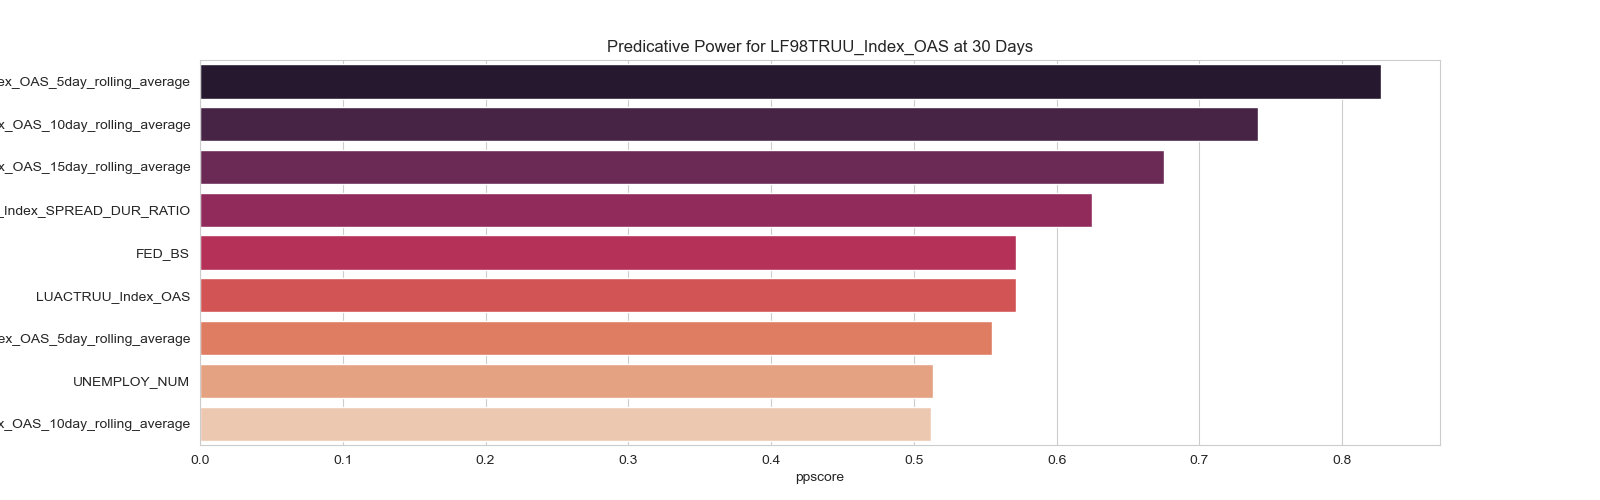
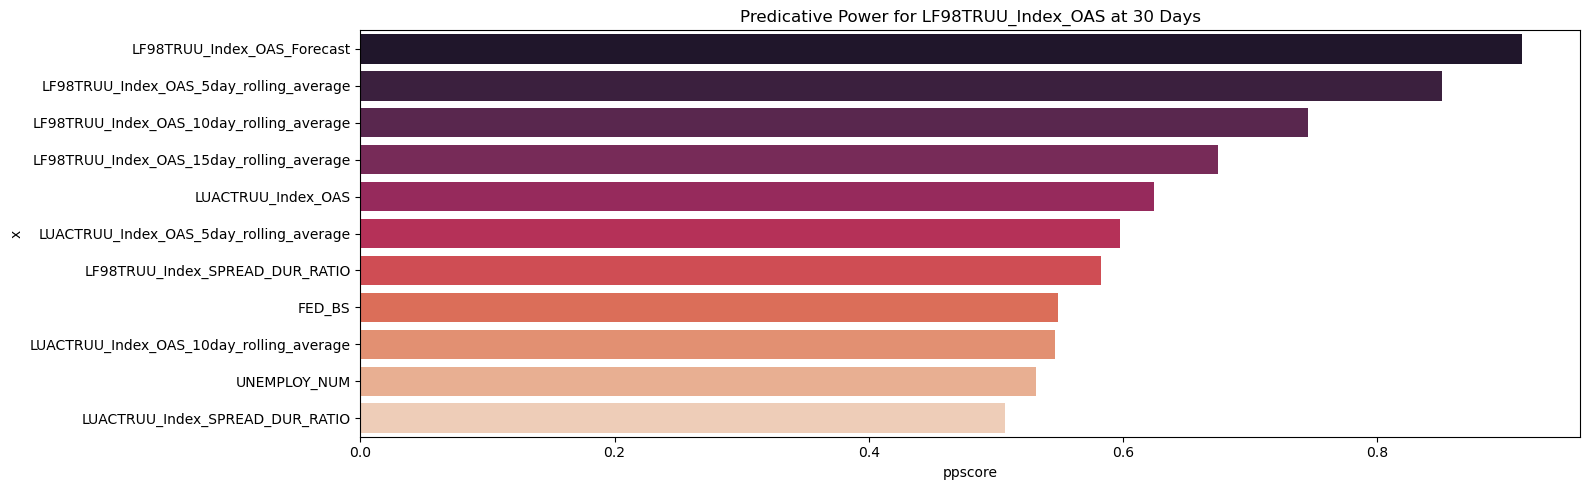
Working GUI, Outputs, Updated README

diff --git a/webapp.py b/webapp.py
@@ -65,6 +65,7 @@ def run_model(model_name):
     if 'model' not in session_state:
         log.info(" Building the current model...")    
         session_state.model =  _models._build_model(session_state.pipeline, model_name)
+        session_state.final_preds = session_state.model._return_final_data()
     my_bar.progress(50)
     session_state.model_results = session_state.model._return_preds()
     session_state.model.predictive_power()
@@ -80,13 +81,7 @@ def run_model(model_name):
 ################################################################################
 # Side Bar - File and Date Chooser  
 ################################################################################
-if 'model' in session_state:
-    st.sidebar.subheader("Menu: ")
-    session_state.page_selection = st.sidebar.radio("Please choose below: ", 
-                                      ('Historic Data',
-                                       'Feature Importance & Model Analysis'), 
-                                      index=0)
-    
+
 st.sidebar.subheader("Reset: ")
 
 if st.sidebar.button('Reset All'):
@@ -119,9 +114,8 @@ date_range = st.sidebar.date_input("Select a date range",
                                    [datetime.date(2012, 8, 8), 
                                     datetime.date(2020, 7, 31)] )
 
-################################################################################
+
 # If Data File -> Pre-process raw data 
-################################################################################
 if st.sidebar.button('Load Data '):
     
     if 'file_buffer' in session_state:
@@ -151,9 +145,8 @@ if st.sidebar.button('Load Data '):
     else:
         st.sidebar.info('Please select a file')
 
-################################################################################
+
 # If Pipeline Exists -> Train Model 
-################################################################################
 session_state.model_type = \
     st.sidebar.selectbox('Which Model Would You Like to Use?', (['','XGBoost']))
 
@@ -179,10 +172,13 @@ if st.sidebar.button('Train Model'):
     elif session_state.model_type == '':
             st.sidebar.warning('Please choose a model to continue')  
             
-
-
-
-   
+if 'model' in session_state:
+    st.sidebar.subheader("Page Menu: ")
+    session_state.page_selection = st.sidebar.radio("Please choose below: ", 
+                                      ('Historic Data',
+                                       'Feature Importance & Model Analysis'), 
+                                      index=0)
+    
 ################################################################################
 # Main Page
 ################################################################################
@@ -220,7 +216,6 @@ if 'model' in session_state:
             
             df_2target = pd.melt(session_state.data, id_vars=['Dates'], value_vars=options)
             df_2target.columns = ['Dates','Target','Value']
-
             fig = px.line(df_2target, x="Dates", y="Value", color='Target', width=1100)
             st.plotly_chart(fig)
         
@@ -242,6 +237,16 @@ if 'model' in session_state:
             col2.metric("Mean Square Error", MSE,)
             col3.metric("Root Mean Square Error", RMSE)
             my_bar.progress(40)
+            session_state.final_preds.reset_index(inplace=True)
+            options = [session_state.target_feature,
+                       str(session_state.target_feature)+"_Forecast"]
+        
+            df_2target = pd.melt(session_state.final_preds, id_vars='Dates', value_vars=options)
+            df_2target.columns = ['Dates','Target','Value']
+            fig = px.line(df_2target, x="Dates", y="Value", color='Target', width=1100)
+            st.plotly_chart(fig)
+
+            
             features = Image.open(str(path)+'\\_img\\predictive_power.png')
             st.image(features, caption='Predictive Power of Features', width=1000)
             my_bar.progress(60)

diff --git a/_models.py b/_models.py
@@ -10,6 +10,8 @@ import random
 import warnings
 
 import matplotlib.pyplot as plt
+from matplotlib import rcParams
+rcParams.update({'figure.autolayout': True})
 import streamlit as st
 import numpy as np
 import pandas as pd
@@ -98,9 +100,8 @@ class _build_model:
         logger.info(" Predicting with model: \n {}".format(self.model))
         self.model_preds = self.model.predict(self.X_test)
         
-        #
         self.final_data = self.pipeline._return_complete_data()
-        self.final_data[self.pipeline._return_target_col()] = \
+        self.final_data[(self.pipeline._return_target_col())+'_Forecast'] = \
             self.model.predict(self.final_data[self.pipeline._return_feature_names()])
         self.final_data = self.final_data.sort_values('Dates', ascending=False).set_index('Dates')
         
@@ -129,7 +130,7 @@ class _build_model:
         f, ax = plt.subplots(figsize=(16, 5))
         ax.set_title("Predicative Power for {0} at {1} Days".format(pipeline_target, forecast_range))
         sns.barplot(data=predictors_df, y="x", x="ppscore",palette="rocket")
-        plt.savefig((str(path))+"\\_img\\predictive_power.png")
+        plt.savefig((str(path))+"\\_img\\predictive_power.png",  bbox_inches="tight")
         if plot:
             f.show() 
                  
@@ -235,7 +236,7 @@ class _build_model:
         ax.set(xlabel='Days Out', ylabel='Predictive Importance')
         ax.set(xticks= list(range(1,forecast_range+1)))
         ax.legend(column_names)
-        plt.savefig((str(path))+"\\_img\\feats_importance_over_time.png")
+        plt.savefig((str(path))+"\\_img\\feats_importance_over_time.png", bbox_inches="tight")
        
     # Classification only, n/a for regression models 
     def _return_roc_and_precision_recall_curves(self):
@@ -286,6 +287,9 @@ class _build_model:
     def _return_preds_with_dates(self):
         self.model_preds['Dates'] = self.X_test_dates
         return self.model_preds  
+
+    def _return_final_data(self):
+        return self.final_data
 
     def _return_model(self):
         return self.model

diff --git a/README.md b/README.md
@@ -1,75 +1,35 @@
-## System requirements:
+## Installation:
 
-1. Downloaded the Program and Data Files contained in this repository (you can download the entire repo as zip, then extract them)
-2. have a Anaconda python distribution installed on your computer
-3. make sure the installed Pandas library is lower than v1.1.0
-4. run "pip install streamlit" to install the library streamlit
+Use pip install -r requirements.txt to install the required libraries.
 
-## To preprocess newly extracted data from Bloomberg terminal:
+## To Begin:
 
-1. ```
-    Open the Economic Data Cleaning.ipynb using Jupyter notebook
-   ```
-2. ```
-    Modify the second cell of input data to be the Bloomberg extract that you wish to process. e.g. 'DATA_PULL_BB_080120_HC.xlsx'
-   ```
-3. ```
-    Modify the last cell of output filename as needed e.g. 'Economic_data_clean_20200801.xlsx'
-   ```
-4. ```
-    Run all the cells to generate the clean output file that can be served to the program.
-   ```
+1. Use Bloomberg's Excel plugin to create an XLSX file and put into the \data folder
+2. An Example file has been provided. It must contain dates and hard values
+3. cd into the \Bloomberg\Predicative\Modelling Folder
 
-- ```
-   The example raw dataset (from Bloomberg) and processed dataset (excel) are available in this repository. 
-  ```
+## To Run the Web Interface:
 
-## To run the Web Application:
+1. Go to your terminal and move to the directory where the webapp.py code is
+2. In the terminal type "streamlit run webapp.py"
+3. Click on the top IP address link that is generated (should take you to the browser)
+4. On the left, select an excel file, e.g., the default file included in data
+5. Specify which category is your target for forecasting
+5. Include a list of categories (separated by a comma (,) where you would like to include momentum features, e.g., rolling averages
+6. Press the "Train Model" button
 
-1. ```
-    Go to your terminal and move to the directory where the Application.py code is
-   ```
-2. ```
-    In the terminal type “streamlit run webapp.py”
-   ```
-3. ```
-    Click on the top IP address link that is generated (should take you to the browser)
-   ```
-4. ```
-    On the left, select an excel file, e.g. the (Economic_data_clean_20200801.xlsx)
-   ```
-5. ```
-    On the left, select a start and end time for data to train on
-   ```
-6. ```
-    Press the “Train Model” button
-   ```
+## Example Outputs:
+Hisotrical Data & Forecasts:
+![alt text](_img\example_forecast.PNG)
 
-## Additional Options For The Web Application:
+Feature Importance Over Time:
+![alt text](_img\feats_importance_over_time.png)
 
-1. ```
-    Press “Display Historical Data Table?” to see the data we’re using.
-   ```
-2. ```
-    Click in the “View Historical Indices” search field. You can select multiple other factors and see how those factors compares to the target variables.
-   ```
-3. ```
-    On the left, can press on “Feature Importance”. On the page can pick “which model?”, the number picked shows the graphs when the model forecasts is that number of days ahead
-   ```
-4. ```
-    On the left, can press on “Model Performance”. On the page can pick “which model?”, the number picked shows the graphs when the model forecasts is that number of days ahead
-   ```
+Predictive Power:
+![alt text](_img\predictive_power.png)
 
-## Prediction and Forecast Interpretation:
-
-1. ```
-    The written recommendation. The top written prediction is for the CDX HY, the bottom written prediction is for the CDX IG
-   ```
-2. ```
-    Each row represent different days.
-   ```
-3. ```
-    Green arrow up, means the model predicts the corresponding CDX will increase. Red arrow down, means the model predicts the corresponding CDX will decrease.
-   ```
-
-## Prediction and Forecast Column Label Interpretation:
+## Work-In-Progress Features:
+1. Inclusion of additional Regression & Classification Models
+2. Model Analytics for Classifiers
+3. Ability to integrate database sources
+4. Customize forecasting periods
